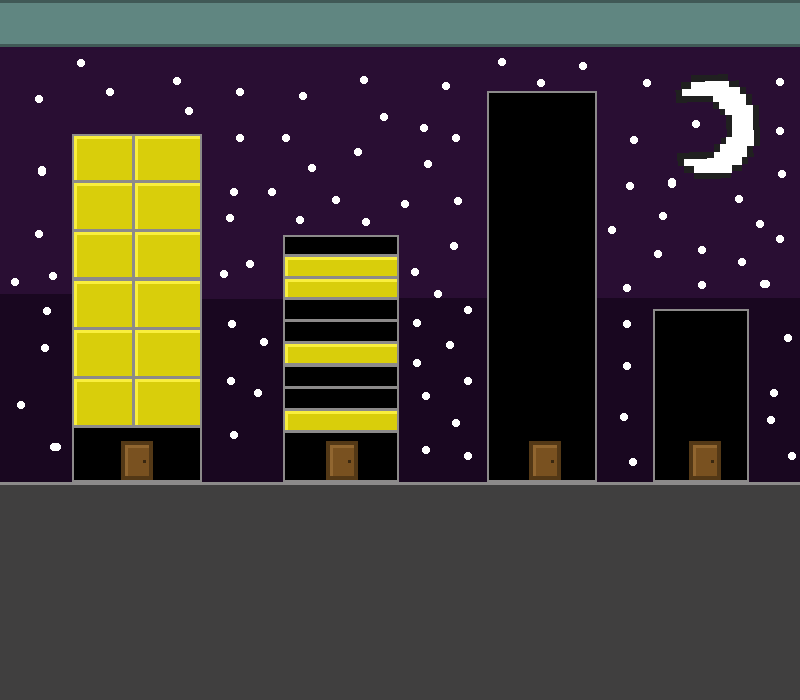
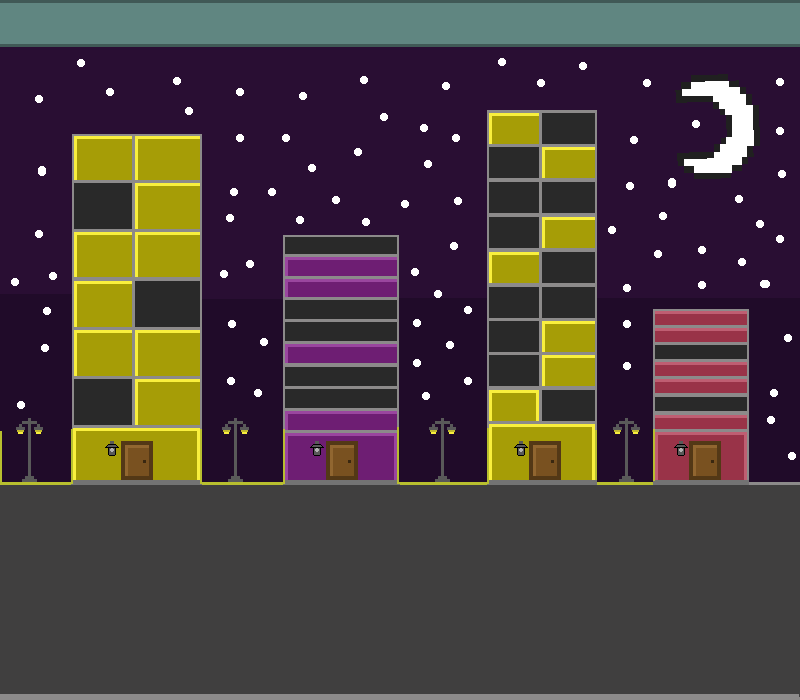
agregamos timmer

diff --git a/assets/scenes/nivel1.js b/assets/scenes/nivel1.js
@@ -7,21 +7,25 @@ export default class nivel1 extends Phaser.Scene {
 
   init() {
     this.vida = 3;
-    this.vida3=true
-    this.vida2=true
-    this.vida1=true
-  
+    this.vida3 = true;
+    this.vida2 = true;
+    this.vida1 = true;
+    this.cuentaRegresiva = 0;
   }
 
   create() {
     const map = this.make.tilemap({ key: "nivel1" });
     //Primero se pone el nombre del conjunto del tile (fondo). Luego, el nombre de la key de la imagen precargada (tilesFondo)
+
     const capaFondo = map.addTilesetImage("fondo", "tilesFondo");
+    const capaCarteles = map.addTilesetImage("carteles", "Carteles");
     const capaPlataformas = map.addTilesetImage(
       "plataforma",
       "tilesPlataforma"
     );
+
     const fondoLayer = map.createLayer("fondo", capaFondo, 0, 0);
+    const cartelLayer = map.createLayer("carteles", capaCarteles, 0, 0);
     const plataformaLayer = map.createLayer(
       "plataforma",
       capaPlataformas,
@@ -54,19 +58,8 @@ export default class nivel1 extends Phaser.Scene {
             .create(x, y, "tacho")
             .setScale(0.8);
           break;
-          
         }
-        
       }
-     
-      
-      
-      
-      
-      
-
-      
-     
     });
 
     this.physics.add.collider(this.obstaculos, plataformaLayer);
@@ -81,15 +74,9 @@ export default class nivel1 extends Phaser.Scene {
     spawnPoint = map.findObject("objetos", (obj) => obj.name === "letrero");
     console.log(spawnPoint);
     // The player and its settings
-    this.salida = this.physics.add.sprite(
-      spawnPoint.x,
-      spawnPoint.y,
-      "salida"
-      
-      
-    )
-    
-    this.physics.add.collider(this.salida, plataformaLayer)
+    this.salida = this.physics.add.sprite(spawnPoint.x, spawnPoint.y, "salida");
+
+    this.physics.add.collider(this.salida, plataformaLayer);
 
     this.jugador.setCollideWorldBounds(true);
 
@@ -101,70 +88,84 @@ export default class nivel1 extends Phaser.Scene {
       null,
       this
     );
-    
+
     this.physics.add.overlap(
       this.jugador,
       this.salida,
       this.nivelSuperado,
       null,
       this
-    )
-      
-    
+    );
+
     this.cursors = this.input.keyboard.createCursorKeys();
 
-    
     this.cameras.main.startFollow(this.jugador);
     this.physics.world.setBounds(0, 0, map.widthInPixels, map.heightInPixels);
     this.cameras.main.setBounds(0, 0, map.widthInPixels, map.heightInPixels);
-    
-    this.vida1 = this.add.image(150,25,"corazon");
-    this.vida2=this.add.image(135,25,"corazon2");
-    this.vida3=this.add.image(122,25,"corazon3");
-    this.vida3.setScrollFactor(0)
-    this.vida2.setScrollFactor(0)
-    this.vida1.setScrollFactor(0)
-    this.isJumping=false 
+
+    this.vida1 = this.add.image(150, 25, "corazon");
+    this.vida2 = this.add.image(135, 25, "corazon2");
+    this.vida3 = this.add.image(122, 25, "corazon3");
+    this.vida3.setScrollFactor(0);
+    this.vida2.setScrollFactor(0);
+    this.vida1.setScrollFactor(0);
+    this.isJumping = false;
+    this.cuentaRegresivaTexto = this.add.text(300, 200, "5", {
+      fontSize: "400px",
+    });
+    this.time.addEvent({
+      delay: 1000,
+      callback: this.timmer,
+      callbackScope: this,
+      loop: true,
+    });
   }
   update() {
-    const onGround = this.jugador.body.blocked.down || this.jugador.body.touching.down;
+    const onGround =
+      this.jugador.body.blocked.down || this.jugador.body.touching.down;
+    
+      if (onGround) {
+        this.isJumping = false;
+      }
+  
+      if (!this.isJumping) {
+        this.jugador.anims.play("caminata", true);
+        this.jugador.setVelocityX(200);
+  
+        if (this.cursors.space.isDown && onGround) {
+          this.jugador.setVelocityY(-400);
+          this.isJumping = true;
+          this.jugador.anims.stop();
+          this.jugador.anims.play("salto", true);
+        }
+      }
+    
 
-  if (onGround) {
-    this.isJumping = false;
-  }
-
-  if (!this.isJumping) {
-    this.jugador.anims.play("caminata", true);
-    this.jugador.setVelocityX(200);
-
-    if (this.cursors.space.isDown && onGround) {
-      this.jugador.setVelocityY(-400);
-      this.isJumping = true;
-      this.jugador.anims.stop();
-      this.jugador.anims.play("salto", true);
-    }
-  }
+    
   }
 
   vidamenos(jugador, obstaculos) {
     obstaculos.disableBody(true, true);
     this.vida--;
-    if(this.vida==2){
-     this.vida1.setVisible(false) 
+    if (this.vida == 2) {
+      this.vida1.setVisible(false);
+    } else if (this.vida == 1) {
+      this.vida2.setVisible(false);
     }
-    else if(this.vida==1){
-      this.vida2.setVisible(false)
-    }
-    
+
     if (this.vida <= 0) {
-      this.vida3= false
+      this.vida3 = false;
       this.scene.pause("nivel1");
       this.scene.launch("perder");
     }
-    this.isJumping= false
+    this.isJumping = false;
   }
   nivelSuperado(jugador, salida) {
     salida.disableBody(true, true);
+  }
+  timmer() {
+    this.cuentaRegresiva--;
+    this.cuentaRegresivaTexto.setText(5 + this.cuentaRegresiva);
     
   }
 }

diff --git a/assets/scenes/Menuprincipal.js b/assets/scenes/Menuprincipal.js
@@ -1,0 +1,53 @@
+export default class menuPrincipal extends Phaser.Scene {
+  constructor() {
+    // key of the scene
+    // the key will be used to start the scene by other scenes
+    super("menuprincipalpantalla");
+  }
+
+  init() {}
+
+  create() {
+    this.add.image(400, 295, "Menuprincipalpantalla");
+    let botonJ = this.add.image(390, 350, "botonjugar").setInteractive();
+    botonJ.on("pointerover", () => {
+      botonJ.setTint("#ffffff");
+    });
+
+    botonJ.on("pointerout", () => {
+      botonJ.clearTint();
+    });
+    botonJ.on("pointerdown", () => {
+      this.scene.start("nivel1");
+    });
+
+    let botonC = this.add.image(600, 500, "botoncreditos").setInteractive();
+    botonC.on("pointerover", () => {
+      botonC.setTint("#ffffff");
+    });
+
+    botonC.on("pointerout", () => {
+      botonC.clearTint();
+    });
+    botonC.on("pointerdown", () => {
+      this.scene.pause("menurincipalpantalla");
+      this.scene.launch("creditos");
+    });
+    let botonT = this.add
+      .image(190, 500, "botontutorial")
+      .setInteractive()
+      .setScale(0.9);
+    botonT.on("pointerover", () => {
+      botonT.setTint("#ffff33");
+    });
+
+    botonT.on("pointerout", () => {
+      botonT.clearTint();
+    });
+    botonT.on("pointerdown", () => {
+      this.scene.pause("menuprincipalpantalla");
+
+      this.scene.launch("tutorial");
+    });
+  }
+}

diff --git a/assets/scenes/Precarga.js b/assets/scenes/Precarga.js
@@ -20,7 +20,7 @@ preload() {
       frameHeight: 180,
     });
     this.load.spritesheet("jugador", "./public/Images/perrito.png", {
-      frameWidth: 142,
+      frameWidth: 150,
       frameHeight: 149,
     });
     this.load.image("perder","./public/Images/pantallaperder.png");
@@ -29,6 +29,15 @@ preload() {
     this.load.image("corazon","./public/Images/corazon.png");
     this.load.image("corazon2","./public/Images/corazon2.png");
     this.load.image("corazon3","./public/Images/corazon3.png");
+    this.load.image("menuprincipal","./public/Images/MenúPrincipalB.png");
+    this.load.image("Menuprincipalpantalla","./public/Images/MenúPrincipal.png");
+    this.load.image("botonjugar","./public/Images/BotonJugar.png");
+    this.load.image("botoncreditos","./public/Images/BotonCreditos.png");
+    this.load.image("pantallacreditos","./public/Images/Pantallacreditos.png");
+    this.load.image("flechasalir","./public/Images/flechasalir.png");
+    this.load.image("botontutorial","./public/Images/BotonTutorial.png");
+    this.load.image("pantallatutorial","./public/Images/Tutorial.png");
+    this.load.image("Carteles","./public/Images/carteles.png");
 
 }
 create(){

diff --git a/assets/scenes/Perder.js b/assets/scenes/Perder.js
@@ -10,10 +10,29 @@ export default class Perder extends Phaser.Scene {
  create(){
     this.add.image(400,300,"perder");
     let botonP = this.add.image(250,450, "bPerder").setInteractive()
+    botonP.on("pointerover", () => {
+      botonP.setTint("#ffffff");
+  });
+
+  botonP.on("pointerout", () => {
+      botonP.clearTint();
+  });
     botonP.on("pointerdown", () => {
+      
        this.scene.start("nivel1");})
         
     
+    let botonM = this.add.image(500,450,"menuprincipal").setInteractive()
+    botonM.on("pointerover", () => {
+      botonM.setTint("#ffffff");
+  });
+    botonM.on("pointerout",() => {
+      botonM.clearTint();
+   });
+   botonM.on("pointerdown",()=> {
+      this.scene.stop("nivel1")
+      this.scene.start("menuprincipalpantalla");
+   });
     
  }
 

diff --git a/main.js b/main.js
@@ -1,6 +1,9 @@
 import Perder from "./assets/scenes/Perder.js";
 import Precarga from "./assets/scenes/Precarga.js";
 import nivel1 from "./assets/scenes/nivel1.js";
+import Menuprincipal from "./assets/scenes/Menuprincipal.js";
+import creditos from"./assets/scenes/creditos.js";
+import tutorial from "./assets/scenes/tutorial.js";
 
 
 // Create a new Phaser config object
@@ -30,7 +33,7 @@ const config = {
   // List of scenes to load
   // Only the first scene will be shown
   // Remember to import the scene before adding it to the list
-  scene: [Precarga,nivel1,Perder],
+  scene: [Precarga,Menuprincipal,nivel1,Perder,creditos,tutorial],
 };
 
 // Create a new Phaser game instance

diff --git a/assets/scenes/creditos.js b/assets/scenes/creditos.js
@@ -1,0 +1,25 @@
+export default class creditos extends Phaser.Scene {
+  constructor() {
+    // key of the scene
+    // the key will be used to start the scene by other scenes
+    super("creditos");
+  }
+
+init(){}
+
+create(){
+    this.add.image(400,300 , "pantallacreditos");
+    let botonS= this.add.image(200,440,"flechasalir").setInteractive()
+    botonS.on("pointerover", () => {
+        botonS.setTint("#ffffff");
+    });
+  
+    botonS.on("pointerout", () => {
+        botonS.clearTint();
+    });
+      botonS.on("pointerdown", () => {
+        
+         this.scene.start("menuprincipalpantalla");})
+}
+
+}

diff --git a/assets/scenes/tutorial.js b/assets/scenes/tutorial.js
@@ -1,0 +1,21 @@
+export default class tutorial extends Phaser.Scene {
+  constructor() {
+    // key of the scene
+    // the key will be used to start the scene by other scenes
+    super("tutorial");
+  }
+  create(){
+    this.add.image(400,300,"pantallatutorial");
+    let botonS= this.add.image(190,440,"flechasalir").setInteractive()
+    botonS.on("pointerover", () => {
+        botonS.setTint("#ffffff");
+    });
+  
+    botonS.on("pointerout", () => {
+        botonS.clearTint();
+    });
+      botonS.on("pointerdown", () => {
+        
+         this.scene.start("menuprincipalpantalla");})
+  }
+}
